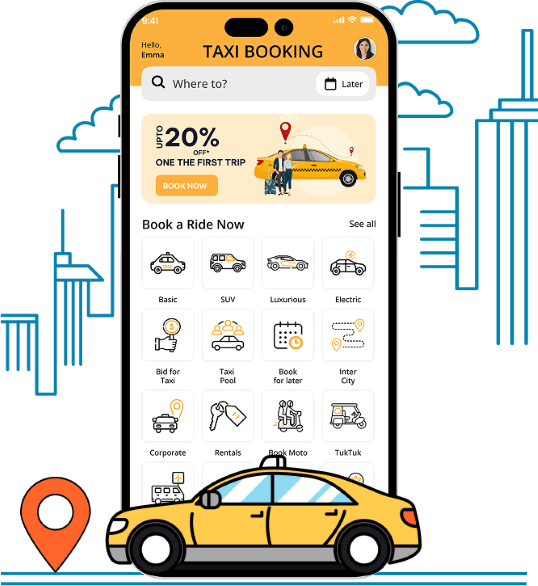
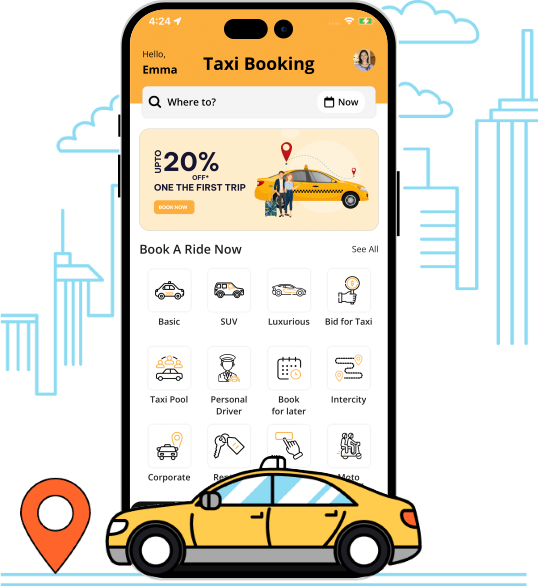
Changes
Changes

Changed region(s): [[0.0, 0.0, 1.0, 1.0]]

diff --git a/css/style.css b/css/style.css
@@ -2211,7 +2211,7 @@ textarea:focus {
     background-color: #FFE5E5 !important;
     border-color: #E48E8E !important;
  }
- .g-recaptcha {
+ .recaptcha-input {
     display: block;
     margin-bottom: 16px;
  }
